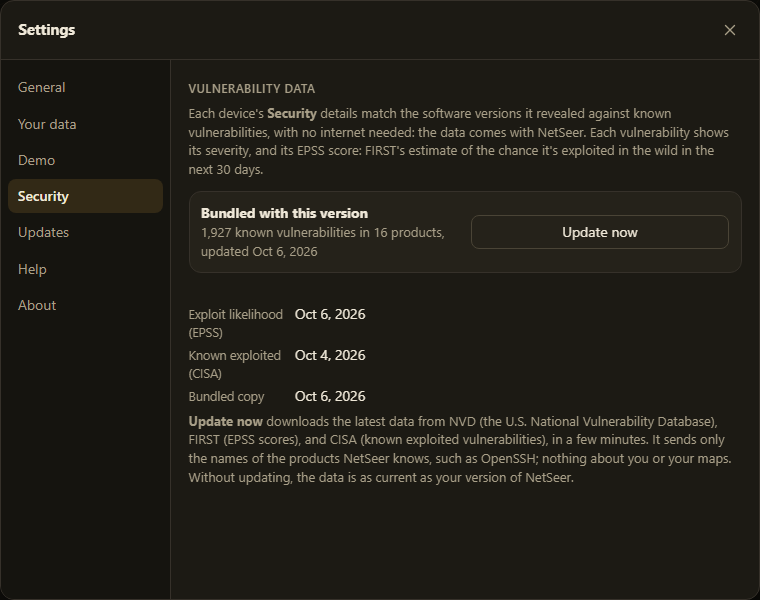
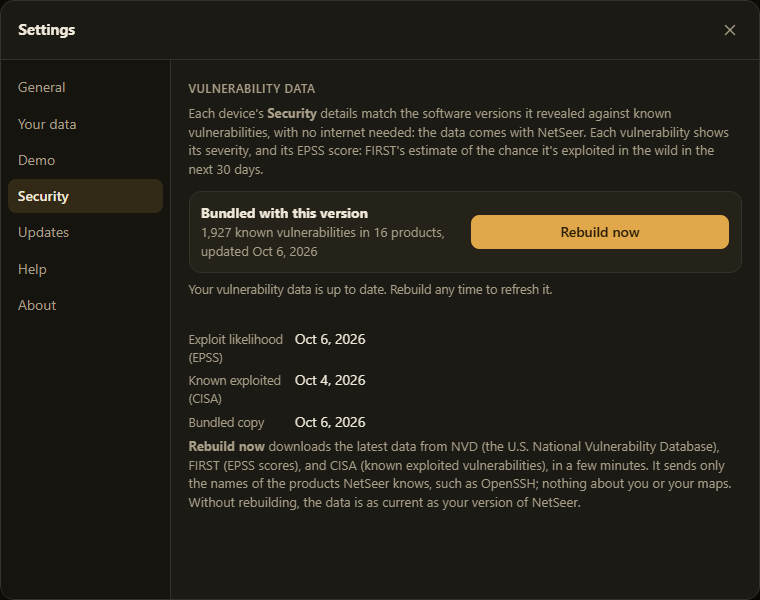
Make the vulnerability-data rebuild a highlighted call to action
Settings > Security's button is now a primary 'Rebuild now'. When the
machine is online it invites a click, glowing (and saying how old the
data is) once the data is 14+ days stale; when offline it's held back
with a reason. It updates live as the connection comes and goes.

Changed region(s): [[0.2421, 0.48, 0.9684, 0.87], [0.6053, 0.36, 0.9684, 0.42]]

diff --git a/src/netseer/web/app.js b/src/netseer/web/app.js
@@ -4335,7 +4335,7 @@ async function mergeSurveyDialog(surveyId) {
 // database. The server does the matching; this draws it.
 const SECURITY_COLORS = { critical: "#d6293e", high: "#f2711c", medium: "#e0a800", low: "#4c8dff" };
 const SECURITY_NAMES = { critical: "Critical", high: "High", medium: "Medium", low: "Low" };
-const security = { seq: 0, overlay: null, overlayKey: null, loading: false, poll: null };
+const security = { seq: 0, overlay: null, overlayKey: null, loading: false, poll: null, dbInfo: null };
 
 const epssText = (epss) => {
   if (epss == null) return "unknown";
@@ -4533,7 +4533,47 @@ async function renderSecurityPane() {
     : "";
   show("vdb-online", info.can_refresh);
   show("vdb-hosted", !info.can_refresh);
+  security.dbInfo = info;
   showRefresh(info.refresh);
+}
+
+// How stale the data is, in whole days (from whichever copy is in use).
+function vulndbAgeDays(info) {
+  const gen = info?.in_use?.generated;
+  const t = gen ? Date.parse(gen.length <= 10 ? `${gen}T12:00:00Z` : gen) : NaN;
+  return Number.isFinite(t) ? Math.floor((Date.now() - t) / 86400000) : null;
+}
+
+// The rebuild button is the call to action: bright and inviting when online (brighter still when
+// the data is old), and clearly held back with a reason when offline or already current.
+const VULNDB_STALE_DAYS = 14;
+
+function syncRefreshButton() {
+  const info = security.dbInfo;
+  const btn = el("vdb-update");
+  const cta = el("vdb-cta");
+  if (!info || !info.can_refresh || info.refresh?.state === "running") {
+    btn?.classList.remove("attention");
+    if (cta) cta.classList.add("hidden");
+    return;
+  }
+  const online = navigator.onLine;
+  const age = vulndbAgeDays(info);
+  const stale = age != null && age >= VULNDB_STALE_DAYS;
+  btn.disabled = !online;
+  btn.classList.toggle("attention", online && stale);
+  cta.classList.remove("hidden", "good", "warn");
+  if (!online) {
+    cta.textContent = "Connect to the internet, then rebuild to get the latest vulnerability data.";
+  } else if (stale) {
+    cta.textContent = `This data is ${plural(age, "day")} old. Rebuild now to check devices against the latest known vulnerabilities.`;
+    cta.classList.add("warn");
+  } else if (age != null) {
+    cta.textContent = age <= 1 ? "Your vulnerability data is up to date. Rebuild any time to refresh it." : `Your vulnerability data is ${plural(age, "day")} old. Rebuild any time to refresh it.`;
+    cta.classList.add("good");
+  } else {
+    cta.classList.add("hidden");
+  }
 }
 
 function showRefresh(job) {
@@ -4556,6 +4596,7 @@ function showRefresh(job) {
   } else status.textContent = "";
   clearInterval(security.poll);
   if (running) security.poll = setInterval(pollRefresh, 1200);
+  syncRefreshButton();
 }
 
 async function pollRefresh() {
@@ -4589,6 +4630,12 @@ function bindSecurity() {
     }
   });
   el("vdb-cancel").addEventListener("click", () => fetch("/api/security/refresh/cancel", { method: "POST" }));
+  // Keep the button's invitation honest as the connection comes and goes.
+  const onConnectivity = () => {
+    if (el("settings-dialog").open && !el("vdb-online").classList.contains("hidden")) syncRefreshButton();
+  };
+  window.addEventListener("online", onConnectivity);
+  window.addEventListener("offline", onConnectivity);
 }
 
 /* ---------- Demo (Settings) ---------- */

diff --git a/src/netseer/web/index.html b/src/netseer/web/index.html
@@ -15,7 +15,7 @@
     <link rel="icon" type="image/svg+xml" href="/static/logo-small.svg" />
     <link rel="icon" type="image/png" href="/static/favicon.png" />
     <link rel="apple-touch-icon" href="/static/logo-192.png" />
-    <link rel="stylesheet" href="/static/styles.css?v=ui26" />
+    <link rel="stylesheet" href="/static/styles.css?v=ui27" />
     <script src="/static/vendor/cytoscape.min.js?v=3.30.4"></script>
   </head>
   <body>
@@ -530,15 +530,16 @@
                 <strong id="vdb-inuse">&hellip;</strong>
                 <span id="vdb-detail" class="hint"></span>
               </div>
-              <div id="vdb-online"><button id="vdb-update" class="btn" type="button">Update now</button></div>
+              <div id="vdb-online"><button id="vdb-update" class="btn primary" type="button">Rebuild now</button></div>
             </div>
+            <p id="vdb-cta" class="vdb-cta hidden"></p>
             <div id="vdb-progress" class="hidden">
               <div class="progress" role="progressbar" aria-labelledby="vdb-step" aria-valuemin="0" aria-valuemax="100"><div id="vdb-bar"></div></div>
               <div class="row-actions"><span id="vdb-step" class="hint"></span><button id="vdb-cancel" class="btn ghost small" type="button">Stop</button></div>
             </div>
             <p id="vdb-status" class="update-status" role="status" aria-live="polite"></p>
             <dl id="vdb-facts" class="facts"></dl>
-            <p class="hint"><strong>Update now</strong> downloads the latest data from NVD (the U.S. National Vulnerability Database), FIRST (EPSS scores), and CISA (known exploited vulnerabilities), in a few minutes. It sends only the names of the products NetSeer knows, such as OpenSSH; nothing about you or your maps. Without updating, the data is as current as your version of NetSeer.</p>
+            <p class="hint"><strong>Rebuild now</strong> downloads the latest data from NVD (the U.S. National Vulnerability Database), FIRST (EPSS scores), and CISA (known exploited vulnerabilities), in a few minutes. It sends only the names of the products NetSeer knows, such as OpenSSH; nothing about you or your maps. Without rebuilding, the data is as current as your version of NetSeer.</p>
             <p id="vdb-hosted" class="hint hidden">This online copy uses the vulnerability data that came with its version. Installed copies can update it.</p>
           </section>
 
@@ -675,6 +676,6 @@
         <label class="egg-line"><span id="egg-prompt"></span><input id="egg-input" type="text" autocomplete="off" autocapitalize="off" spellcheck="false" aria-label="Command" /></label>
       </div>
     </div>
-    <script src="/static/app.js?v=ui44"></script>
+    <script src="/static/app.js?v=ui45"></script>
   </body>
 </html>

diff --git a/src/netseer/web/styles.css b/src/netseer/web/styles.css
@@ -1617,3 +1617,10 @@ body.list-dragging, body.list-dragging * { cursor: grabbing !important; user-sel
 .sec-handshakes li { padding: 0.4rem 0.55rem; border: 1px solid var(--line); border-radius: 8px; }
 .sec-handshakes p { margin: 0.25rem 0 0; }
 .hs-head { display: flex; align-items: center; gap: 0.4rem; font-size: 13px; }
+
+.vdb-cta { margin: 0.5rem 0 0.2rem; font-size: 12.5px; color: var(--muted); }
+.vdb-cta.good { color: var(--muted); }
+.vdb-cta.warn { color: var(--accent); font-weight: 600; }
+.btn.attention { box-shadow: 0 0 0 1px var(--accent), 0 0 12px var(--accent-soft); animation: vdb-pulse 1.8s ease-in-out infinite; }
+@keyframes vdb-pulse { 0%, 100% { box-shadow: 0 0 0 1px var(--accent), 0 0 10px var(--accent-soft); } 50% { box-shadow: 0 0 0 1px var(--accent), 0 0 18px var(--accent); } }
+@media (prefers-reduced-motion: reduce) { .btn.attention { animation: none; } }

diff --git a/docs/netseer-how-to.md b/docs/netseer-how-to.md
@@ -47,7 +47,7 @@ The **cog** in the top bar. A dot on it means a newer release is out.
 | **General** | Theme; **Scroll to zoom** speed (Gentle, Normal, Quick); **Show SSIDs under access points**; **Fade unrelated devices on hover** (off by default); **Time**: time zone (this computer, UTC, or any) and 12- or 24-hour clock |
 | **Your data** | Count of saved maps and devices; whether storage is protected from automatic cleanup, with **Protect my maps** if not; **Back up all maps** (one JSON file with maps, names, notes, edits, positions, and preferences); **Restore a backup…** (replaces what's saved here; asks first); **Clear all data…** (asks first) |
 | **Demo** | The sample captures, each with **Open** (or **Show** once opened); **Compare the branch office samples** opens a pair a week apart and sets up **Compare surveys** |
-| **Security** | The vulnerability data for the Security findings (bundled, or downloaded), with its date; **Update now** (installed copies) downloads the latest from NVD, FIRST EPSS, and CISA, sending only product names |
+| **Security** | The vulnerability data for the Security findings (bundled, or downloaded), with its date; **Rebuild now** (installed copies, highlighted when you're online) downloads the latest from NVD, FIRST EPSS, and CISA, sending only product names |
 | **Updates** | Version and install type; **Check for updates**; **Check when NetSeer opens** (off by default, at most once a day); the current release and any newer ones, each with **Release notes** and **Reinstall** or **Update**; older ones are folded under **Earlier versions**: pick one from the list for its **Release notes** and **Roll back**. In the desktop app these open the update wizard: release notes and an optional backup, then a download checked against GitHub's SHA-256, then **Restart and update** (NetSeer closes, installs, and reopens). From source, the button copies a `uv tool install --force` command for that version. The online copy updates itself and shows no list. |
 | **Help** | **Take the tour**, **Keyboard shortcuts**, the user guide, **Report a problem** (a new GitHub issue with your version filled in) |
 | **About** | Version, how NetSeer is running, links, and component licenses |
@@ -173,7 +173,7 @@ Every device's **Details** has a **Security** section (also `POST /api/security/
 - **Known vulnerabilities** from software versions in banners (SSH greeting, HTTP `Server`/`X-Powered-By`). Each CVE shows CVSS severity, **EPSS** (chance of exploitation in the next 30 days), and a **Known exploited** flag from CISA KEV. No version means no match — NetSeer never guesses from the maker. A distribution banner (Ubuntu, Debian, …) is noted, since those backport fixes without changing the version.
 - **Wi-Fi handshakes**: a captured WPA four-way handshake is listed on both the station and the access point, with which of messages 1–4 were seen. If enough was captured (message 2 plus 1 or 3) on a PSK network, it's flagged as crackable offline. WPA3-SAE and 802.1X handshakes are listed but not flagged.
 - **Layers → Security → Shade by security** tints each device by its most serious finding, with counts.
-- The data is bundled (works offline). **Settings → Security → Update now** refreshes it.
+- The data is bundled (works offline). **Settings → Security → Rebuild now** refreshes it (highlighted when you're online, and more so when the data is old).
 
 ## Timeline
 

diff --git a/docs/user-guide.md b/docs/user-guide.md
@@ -340,9 +340,9 @@ Click the **cog** at the right of the top bar. A dot on the cog means a newer ve
 
 **Demo.** Sample captures to try NetSeer with; see [Open your captures](#open-your-captures).
 
-**Security.** Shows the vulnerability data NetSeer uses for the Security findings, and when it was built. **Update now** (installed copies only) downloads the latest from NVD, FIRST (EPSS), and CISA in a few minutes; it sends only product names, nothing about you or your maps. Without updating, the data is as current as your version of NetSeer.
+**Security.** Shows the vulnerability data NetSeer uses for the Security findings, and when it was built. **Rebuild now** downloads the latest from NVD, FIRST (EPSS), and CISA in a few minutes; it sends only product names, nothing about you or your maps. On an installed copy the button lights up when you're online — brightest when the data is getting old — and is held back with a reason when you're offline. Without rebuilding, the data is as current as your version of NetSeer.
 
-![Settings, Security: the vulnerability data in use and an Update now button](images/settings-security.png)
+![Settings, Security: the vulnerability data in use and a highlighted Rebuild now button](images/settings-security.png)
 
 **Your data.** Shows how many maps and devices are saved in this browser.
 
